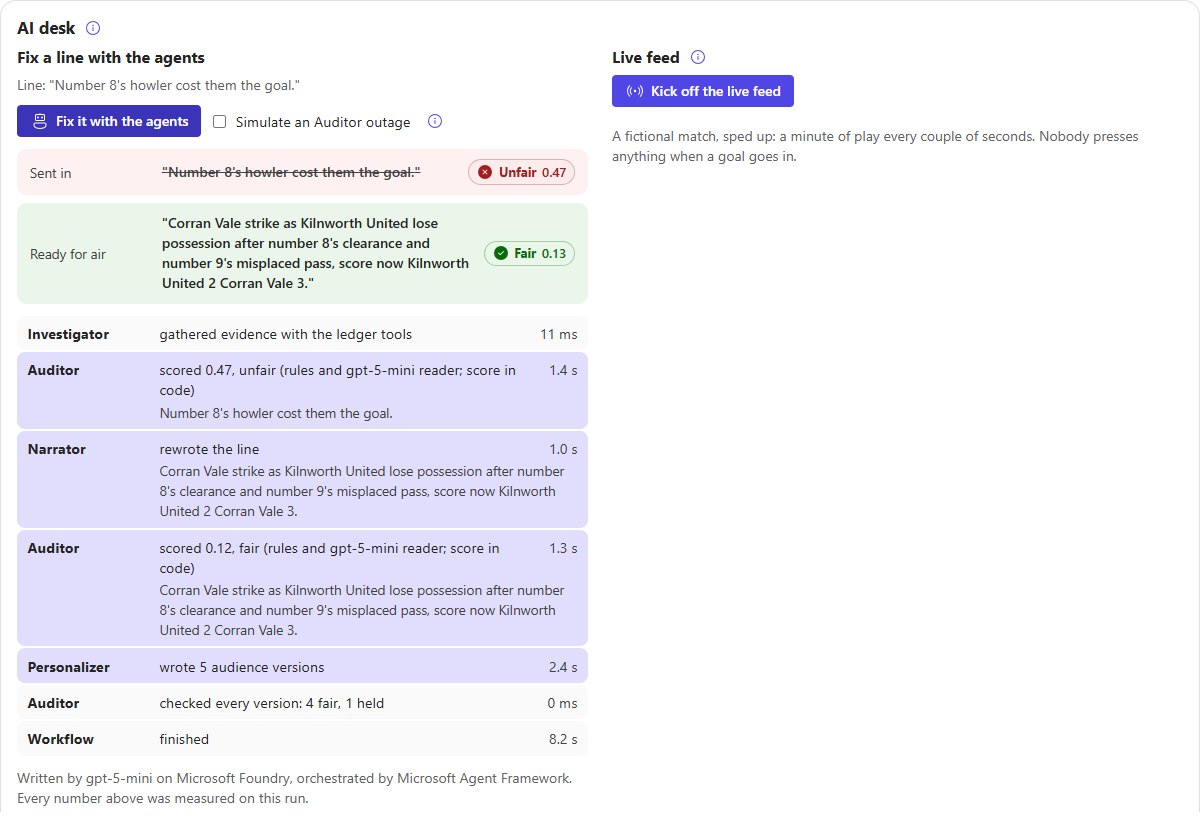
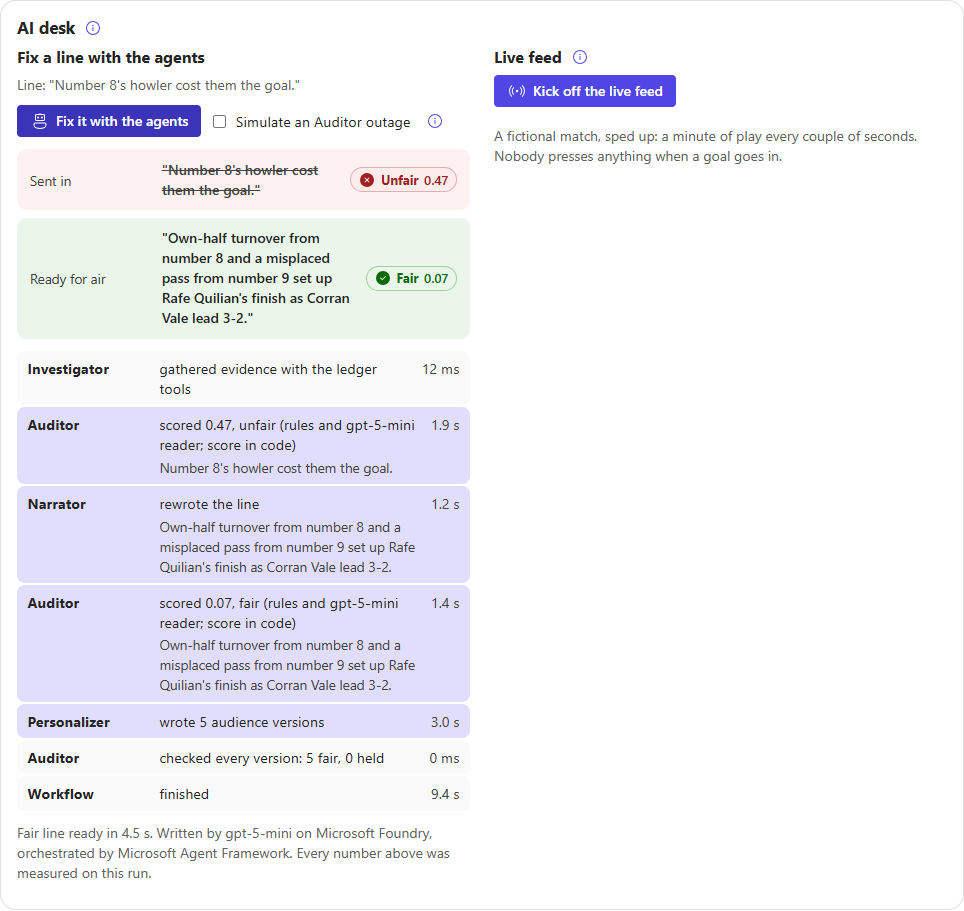
Lead with the product; tighten claims; live numbers in docs; phone-safe grids
- README and page text open on the before-and-after line and the hero screenshot
- Latency, cost and Foundry evaluation figures from live measurement
- Wording: contributed (not caused), median of live goals, separate model judge
- Home falls back to the 22-goal benchmark when no live goals yet
- Link-preview tags and a no-JavaScript summary
- Narrator: shirt numbers without bracketed names
- Grid minimums clamp to the viewport (360 px overflow fixed)
- Patterns 13 to 22 audit v2 with the cold-reader comparison

diff --git a/apps/web/src/pages/Home.tsx b/apps/web/src/pages/Home.tsx
@@ -48,8 +48,8 @@ export default function Home() {
   const live = liveAi(health);
   const [agentRun, setAgentRun] = useState<{ busy: boolean; result?: AgentResult; error?: string }>({ busy: false });
   // Measured live on every goal: the fair line ready for air, and all five audience versions ready.
-  const [timing, setTiming] = useState<{ line: number | null; all: number | null }>({ line: null, all: null });
-  useEffect(() => { getMetrics().then((m) => setTiming({ line: m?.line_p50_s ?? null, all: m?.p50_s ?? null })); }, []);
+  const [timing, setTiming] = useState<{ line: number | null; all: number | null; n: number }>({ line: null, all: null, n: 0 });
+  useEffect(() => { getMetrics().then((m) => setTiming({ line: m?.line_p50_s ?? null, all: m?.p50_s ?? null, n: m?.goals_processed ?? 0 })); }, []);
 
   const showcase = useMemo(() => {
     const data = match.data;
@@ -77,7 +77,7 @@ export default function Home() {
         <div className="mh-hero-text">
           <h1>Nobody concedes alone.</h1>
           <p className="mh-lead mh-lead-strong">
-            Microsoft Foundry agents trace every goal back through every player who caused it, catch scapegoating
+            Microsoft Foundry agents trace every goal back through every player who contributed to it, catch scapegoating
             lines before they air, and rewrite them fairly, seconds after the goal.
           </p>
           <p className="mh-lead">
@@ -245,9 +245,16 @@ export default function Home() {
         <h2 id="proof">What it means on a match day</h2>
         <dl className="mh-outcomes">
           <div>
-            <dt>{timing.line ? `${timing.line.toFixed(1)} s` : "Seconds"}</dt>
-            <dd>from a goal reaching Azure Event Hubs to a fair, checked line ready for the lower third
-              {timing.all ? `; all five audience versions follow by ${timing.all.toFixed(1)} s` : ""}. Median, measured live on every goal.</dd>
+            {timing.line ? (<>
+              <dt>{timing.line.toFixed(1)} s</dt>
+              <dd>from a goal reaching Azure Event Hubs to a fair, checked line ready for the lower third
+                {timing.all ? `; all five audience versions follow by ${timing.all.toFixed(1)} s` : ""}. Median of the {timing.n} live goals since the server last started.</dd>
+            </>) : (<>
+              <dt>{results.data ? `${results.data.operations.line_ready_s.p50.toFixed(1)} s` : "Seconds"}</dt>
+              <dd>from a goal to a fair, checked line ready for the lower third; all five audience versions
+                follow by {results.data ? `${results.data.operations.all_versions_s.p50.toFixed(1)} s` : "a few seconds more"}. Median
+                of {results.data?.operations.moments ?? 22} goals in our benchmark. Kick off the live feed in the Studio to measure it yourself.</dd>
+            </>)}
           </div>
           <div>
             <dt>{results.data ? `$${results.data.operations.cost_per_season_usd.toFixed(0)}` : "About $5"}</dt>

diff --git a/apps/web/index.html b/apps/web/index.html
@@ -3,7 +3,12 @@
   <head>
     <meta charset="UTF-8" />
     <meta name="viewport" content="width=device-width, initial-scale=1.0" />
-    <meta name="description" content="Many Hands traces every goal back through every player who caused it, checks each broadcast line for scapegoating, and rewrites it fairly before it airs." />
+    <meta name="description" content="Many Hands traces every goal back through every player who contributed to it, checks each broadcast line for scapegoating, and rewrites it fairly before it airs." />
+    <meta property="og:title" content="Many Hands: nobody concedes alone" />
+    <meta property="og:description" content="Microsoft Foundry agents trace every goal to everyone who contributed, catch scapegoating before it airs, and have a fair line ready in about 3 seconds." />
+    <meta property="og:image" content="https://ca-manyhands-7kzrrno7qr6zo.orangedune-9d42108b.eastus2.azurecontainerapps.io/og.png" />
+    <meta property="og:type" content="website" />
+    <meta name="twitter:card" content="summary_large_image" />
     <meta name="color-scheme" content="light dark" />
     <title>Many Hands: fair match intelligence</title>
     <link rel="icon" href="/favicon.svg" type="image/svg+xml" />
@@ -19,6 +24,12 @@
     </script>
   </head>
   <body>
+    <noscript>
+      <h1>Many Hands: nobody concedes alone</h1>
+      <p>Microsoft Foundry agents trace every goal back through every player who contributed to it, catch scapegoating lines before they air, and have a fair line ready about 3 seconds after the goal.</p>
+      <p>A pundit is about to say: "Number 8's howler cost them the goal." Unfair. Many Hands puts on air: "A loose clearance by number 8 and a misplaced pass from number 9 led to Rafe Quilian's goal." Fair.</p>
+      <p>This site needs JavaScript. The code, results and a three-minute judge's path are at https://github.com/usv240/many-hands. API health: /v1/health. Live timings: /v1/metrics.</p>
+    </noscript>
     <div id="root"></div>
     <script type="module" src="/src/main.tsx"></script>
   </body>

diff --git a/apps/web/src/styles.css b/apps/web/src/styles.css
@@ -393,13 +393,13 @@ main:focus { outline: none; }
 .mh-hero-card .fui-Button { margin: 0.5rem 0 0.75rem; }
 .mh-statement { font-size: clamp(1.2rem, 2vw, 1.6rem); line-height: 1.4; font-weight: 600; max-width: 60ch; margin: 0.5rem 0 2rem; }
 .mh-statement a { font-size: 0.9rem; font-weight: 400; white-space: nowrap; }
-.mh-facts-row { display: grid; gap: 2rem 2.5rem; grid-template-columns: repeat(auto-fit, minmax(240px, 1fr)); }
+.mh-facts-row { display: grid; gap: 2rem 2.5rem; grid-template-columns: repeat(auto-fit, minmax(min(240px, 100%), 1fr)); }
 .mh-fact p:not(.mh-fact-num), .mh-stat p:not(.mh-stat-num) { max-width: 38ch; }
-.mh-outcomes { display: grid; gap: 1.5rem 3rem; grid-template-columns: repeat(auto-fit, minmax(260px, 1fr)); margin: 1.5rem 0 3rem; }
+.mh-outcomes { display: grid; gap: 1.5rem 3rem; grid-template-columns: repeat(auto-fit, minmax(min(260px, 100%), 1fr)); margin: 1.5rem 0 3rem; }
 .mh-outcomes dt { font-size: clamp(3rem, 6vw, 4.6rem); font-weight: 750; letter-spacing: -0.03em; line-height: 1; font-variant-numeric: tabular-nums; color: var(--colorBrandForeground1); }
 .mh-outcomes dd { margin: 0.6rem 0 0; font-size: 1.05rem; max-width: 36ch; }
 .mh-subhead { font-size: 1.05rem; color: var(--colorNeutralForeground2); margin-bottom: 1rem; }
-.mh-uses { list-style: none; padding: 0; margin: 1.25rem 0 0; display: grid; grid-template-columns: repeat(auto-fit, minmax(340px, 1fr)); gap: 0.25rem 2.5rem; }
+.mh-uses { list-style: none; padding: 0; margin: 1.25rem 0 0; display: grid; grid-template-columns: repeat(auto-fit, minmax(min(340px, 100%), 1fr)); gap: 0.25rem 2.5rem; }
 .mh-uses li { display: grid; grid-template-columns: 40px 1fr; gap: 0.25rem 0.9rem; padding: 1rem 0; align-items: start; }
 .mh-uses li h3 { margin: 0.1rem 0 0.2rem; }
 .mh-uses li p { margin: 0; color: var(--colorNeutralForeground2); }

diff --git a/apps/web/src/pages/Results.tsx b/apps/web/src/pages/Results.tsx
@@ -105,7 +105,7 @@ export default function Results() {
           <section className="mh-section" aria-labelledby="foundry-eval">
             <h2 id="foundry-eval">Checked in Microsoft Foundry Evaluations</h2>
             <p>Every goal's lines went into one Foundry evaluation run with two graders: our Scapegoat Index as a
-              code grader, and an independent model judge that sees only the line and the evidence, never our score.</p>
+              code grader, and a separate model judge, with its own instructions, that sees only the line and the evidence, never our score.</p>
             <div className="mh-table-wrap">
               <table className="mh-table">
                 <thead><tr><th>Lines</th><th>Fair by the Scapegoat Index (code)</th><th>Fair by the independent judge (model)</th></tr></thead>

diff --git a/scripts/shots.py b/scripts/shots.py
@@ -99,7 +99,11 @@ def main() -> None:
             page.wait_for_selector(".mh-hero-card .mh-trace", timeout=90000)
             report["timings"]["home_fix_s"] = round(time.time() - t0, 1)
             page.wait_for_timeout(1200)
-            page.locator(".mh-hero").screenshot(path=str(out / "1-home-agents-fix-the-line.png"))
+            box = page.locator(".mh-hero").bounding_box()  # pad the crop so the headline does not touch the frame
+            page.screenshot(path=str(out / "1-home-agents-fix-the-line.png"), full_page=True,
+                            clip={"x": max(0, box["x"] - 40), "y": max(0, box["y"] - 24),
+                                  "width": min(box["width"] + 80, 1440 - max(0, box["x"] - 40)),
+                                  "height": box["height"] + 48})
 
             # 2. Studio: the evidence check, with the replay on the deciding action.
             page.goto(b + "/studio", wait_until="networkidle")

diff --git a/services/agents/workflow.py b/services/agents/workflow.py
@@ -148,7 +148,7 @@ class Investigator(Executor):
 NARRATOR_RULES = (
     "You are the Narrator for a live football broadcast. Write ONE line for an on-screen graphic, "
     "at most 25 words, from the facts only. Never invent players, numbers or events. Refer to "
-    "defending players by shirt number. Blame must match the responsibility shares: name a single "
+    "defending players by shirt number only (\"number 8\"), never with their name in brackets. Blame must match the responsibility shares: name a single "
     "player as the cause only if their share is 60 percent or more; otherwise share it among the "
     "players with 15 percent or more, or describe the move without blame. If you mention the score, "
     "use the score given in the facts, written naturally (for example 'Corran Vale lead 3-2'); never "

diff --git a/README.md b/README.md
@@ -1,19 +1,30 @@
 # Many Hands
 
-**Microsoft Foundry agents trace every goal back through every player who caused it, catch scapegoating lines before they air, and rewrite them fairly, about 4 seconds after the goal.**
+**Microsoft Foundry agents trace every goal back through every player who contributed to it, catch scapegoating lines before they air, and have a fair line ready about 3 seconds after the goal.**
+
+> **A pundit is about to say:** "Number 8's howler cost them the goal."  **Unfair**
+> **Many Hands puts on air:** "A loose clearance by number 8 and a misplaced pass from number 9 led to Rafe Quilian's goal."  **Fair**
+
+![The agents on Microsoft Foundry catch a one-culprit line and rewrite it fairly, with every step timed](docs/08-submission/gallery/1-home-agents-fix-the-line.png)
 
 **Live:** https://ca-manyhands-7kzrrno7qr6zo.orangedune-9d42108b.eastus2.azurecontainerapps.io · Judges: open **Judges start here** in the header for a three-minute path.
 
 | On a match day | |
 |---|---|
-| **4.0 s median** (5.1 s p95) | from a goal reaching Azure Event Hubs to a fair, checked line and five audience versions, measured live on every goal |
-| **About 51 a season** | moments in a 380-match season where a one-culprit story would be unfair (0.5 provider-labelled errors per match, 27% of them shared), estimated from real tournament data |
-| **0 of 130** | real cases where one player truly was to blame that it wrongly called unfair: fair both ways |
+| **2.6 s** | from a goal reaching Azure Event Hubs to a fair, checked line ready for air (median of the live goals so far; the slowest 1 in 20 took 3.1 s). All five audience versions follow by 7.3 s. |
+| **$4.91 a season** | model cost to check every goal of a 380-match season, about 1.3 cents a match, from the tokens each agent call actually used |
+| **About 51 a season** | moments where a one-culprit story would be unfair. An estimate: real tournament data outside the Premier League shows 0.5 clear errors a match, and 27 percent of those share the blame. |
+| **0 false alarms in 130** | real cases where one player truly was to blame. It does not cry wolf: deserved blame is allowed. |
+| **21 of 21** | agents' lines graded fair in a Microsoft Foundry evaluation, by our code grader and by a separate model judge with its own instructions (the pundit lines: 19 of 21) |
 
 Built for the Inside the Game Developer Hackathon (Microsoft and the Premier League). All match data in the product is synthetic and fictional.
 
 ## Why
-July 2021, the Euro 2020 final: England lose on penalties, and within hours the three young players who missed are racially abused online. Football is a team game, but its stories name one culprit. Reporters' ratings are biased by the result (Kausel et al. 2019), and online abuse of Premier League players peaks right after key moments, with 68 percent of players abused in half a season (Alan Turing Institute for Ofcom, 2022). AI recaps now write those stories at scale. Platforms remove abuse after it is posted. Many Hands works earlier, on the story itself.
+In July 2021, three young England players missed penalties in the Euro 2020 final and were racially abused online within hours. Football is a team game, but its stories name one culprit, and AI recaps now write those stories at scale. Abuse of Premier League players peaks right after key moments: 68 percent of players were abused in half a season (Alan Turing Institute for Ofcom, 2022), and reporters' ratings follow the result, not the play (Kausel et al. 2019). Platforms remove abuse after it is posted. Many Hands works earlier, on the story itself.
+
+**Why goals.** Blame gathers around goals and big chances, so that is where the agents wake. The same evidence also names the unsung players who built the move, which the Studio shows for every goal.
+
+**Safe by default.** If the model fails, a fair line written from a template airs instead. If the fairness check itself cannot run, nothing airs. Both paths can be tried in the Studio.
 
 ## Try it in three minutes
 1. **Home:** press "Fix it with the agents, live". A pundit's one-culprit line goes to the agents on Microsoft Foundry and comes back fair, with every agent step and its timing.
